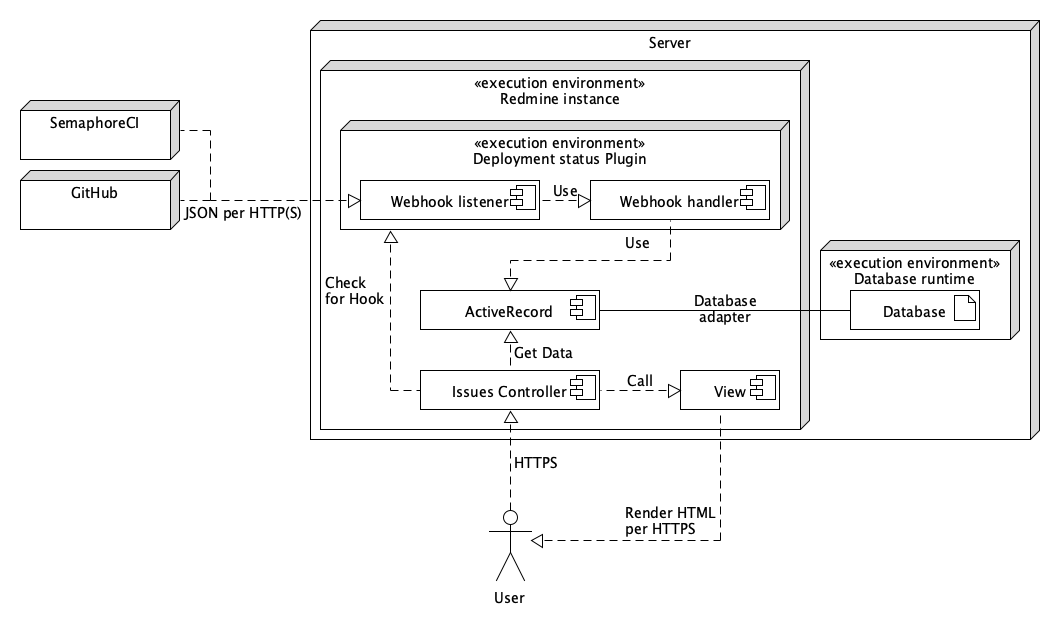
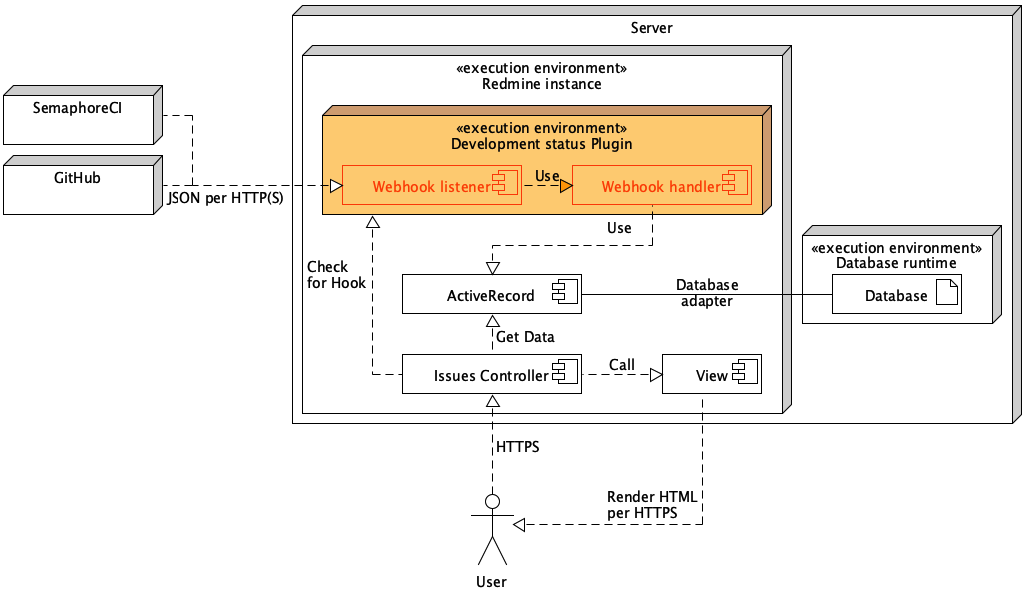
Document some stuff that went forgotten (#54)

diff --git a/src/chapters/check.tex b/src/chapters/check.tex
@@ -6,13 +6,13 @@ Dieser Abschnitt protokolliert das Testkonzept (siehe Kapitel \ref{sec:testkonze
 \label{sec:manual-tests}
 Die manuellen Tests wurden unter \ref{sec:manual-testing} vorgegeben. Hier werden die Ergebnisse
 dokumentiert.
-\begin{tabularx}{\textwidth}[H]{|c|X|X|}
+\begin{tabularx}{\textwidth}[H]{|c|X|X|X|}
     \hline
-    \textbf{Nr.} & \textbf{Resultat} & \textbf{Datum und Uhrzeit} \\ \hline
-    1 & Bestanden & 1. Juni 2023, 16:20 \\ \hline
-    2 & Bestanden & 1. Juni 2023, 16:25 \\ \hline
-    3 & Bestanden & 1. Juni 2023, 16:35 \\ \hline
-    4 & Bestanden & 1. Juni 2023, 16:40 \\ \hline
+    \textbf{Nr.} & \textbf{Resultat} & \textbf{Datum und Uhrzeit} & \textbf{Person}\\ \hline
+    1 & Bestanden & 1. Juni 2023, 16:20 & Anes Hodza\\ \hline
+    2 & Bestanden & 1. Juni 2023, 16:25 & Anes Hodza\\ \hline
+    3 & Bestanden & 1. Juni 2023, 16:35 & Anes Hodza\\ \hline
+    4 & Bestanden & 1. Juni 2023, 16:40 & Anes Hodza\\ \hline
 \end{tabularx}
 
 \subsection{Automatisierte Tests}
@@ -114,3 +114,13 @@ wenig Brücken zu Redmine schlägt. \newline
 Damit das Plugin funktioniert, muss Redmine gar nicht angepasst werden, wie in der CI sichtbar. Dort wird
 das Plugin einfach installiert und es funktioniert. Auch die Brücken zu Redmine sind sehr klein. Das einzige,
 was von Redmine genutzt wird, ist das Issue Objekt. Dieses wird aber nur gelesen und nicht verändert.
+
+\section{Reife der Rails Lösung}
+Eine der Kriterien ist die Reife der Rails Lösung, also ob das Produkt in der Produktionsumgebung
+eingesetzt werden kann. \newline
+Da es eine Test Coverage von 100\% hat, sowie auch problemlos mit der neusten Redmine Version funktioniert,
+kann es in der Produktionsumgebung eingesetzt werden. Und falls wenige Sachen ausgebessert werden müssten,
+wie zum Beispiel das Handling bei History-Veränderungen, ist das sehr schnell erledigt. Die Codebase ist
+sauber und deswegen einfach zu erklären und warten. \newline
+Plan B für SemaphoreCI fügte noch eine weitere Schicht Sicherheit hinzu, indem es dem Nutzer garantiert,
+dass die richtigen Pull Requests mit Deployments befüllt wurden.

diff --git a/src/chapters/journal.tex b/src/chapters/journal.tex
@@ -177,7 +177,8 @@
   Erfolge & Die Dokumentation kommt gut voran und hat jetzt einige Rechtschreibfehler weniger. \\ \hline
   Misserfolge & Das bestimmte Sachen am Source code vergessen oder ausgebessert wurden nahm einiges an Zeit in Anspruch.
   \\ \hline
-  Hilfestellungen & Der HEX machte noch klar wie genau er sich die Abgabe des Source Codes vorstellt. \\
+  Hilfestellungen & Der HEX machte noch klar wie genau er sich die Abgabe des Source Codes vorstellt.
+  Es wurde mit Hilfe des Online-Duden eine Rechtschreib- und Grammatikkorrektur ausgeführt.  \\
   \hline
 \end{tabularx}
 

diff --git a/src/chapters/plan.tex b/src/chapters/plan.tex
@@ -213,3 +213,8 @@ Als Testmittel werden folgende Tools verwendet:
   \item \textbf{SemaphoreCI} für das Erstellen von Pipelines
   \item \textbf{ngrok} für das Erstellen von HTTP-Tunnels
 \end{itemize}
+
+\subsection{Was bewusst nicht getestet wird}
+Da Git ein sehr komplexes System ist, werden bestimmte Edge-Cases nicht getestet. Damit ist hauptsächlich
+die Änderung von Git-History gemeint. Da das ohnehin nicht getan werden sollte, sprengt das den Rahmen
+dieser Arbeit. Das wäre aber eine gute Erweiterung für das Plugin.

diff --git a/src/chapters/inform.tex b/src/chapters/inform.tex
@@ -57,6 +57,8 @@ Im Folgenden wird die Einbettung des Systems in das Gesamtsystem gezeigt sowie d
 
 \subsection{Gesamtsystem}
 Das Gesamtsystem wird hier anhand eines Deployment-Diagramms dargestellt. Dieses zeigt die einzelnen Komponenten und deren Verbindungen.
+Diese PA ist in der Abbildung innerhalb der orangen Box dargestellt. Alles andere ist ausserhalb, hat aber einen Einfluss
+auf das System.
 \begin{center}
     \includegraphics[width=0.8\textwidth]{images/deployment/standard.png}
     \label{fig:deployment-diagram}

diff --git a/src/chapters/evaluate.tex b/src/chapters/evaluate.tex
@@ -1,1 +1,2 @@
 \chapter{Auswerten}
+\section{Reflexion}
